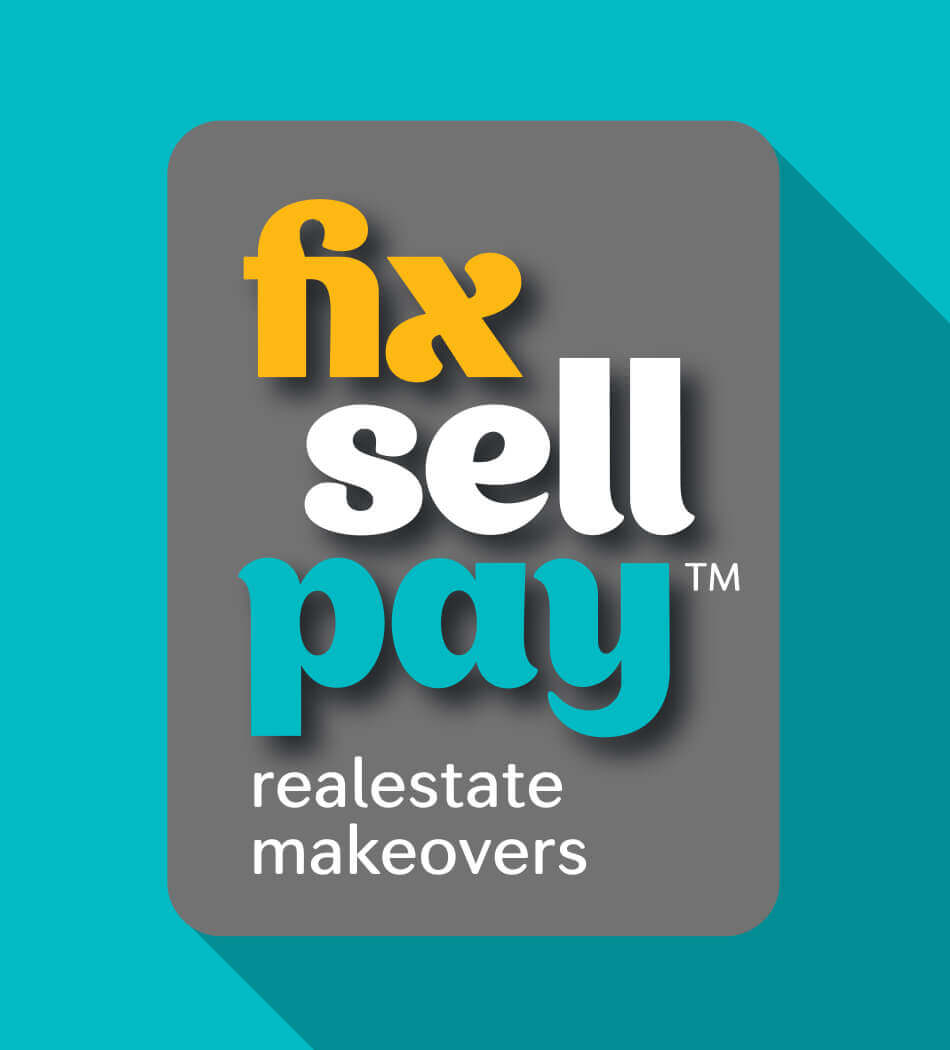
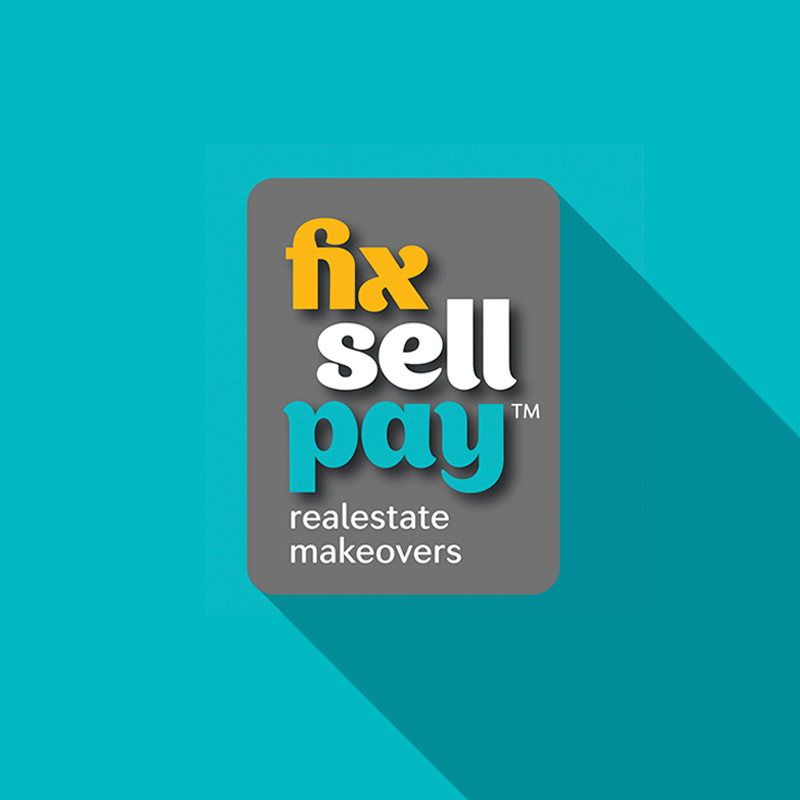
Added projects, adjusted slider images, renamed slider images, replaced thumbnail images for better responsiveness.

diff --git a/source/_posts/work/clarenvale-village.md b/source/_posts/work/clarenvale-village.md
@@ -1,0 +1,34 @@
+---
+layout: work
+title: Clarenvale Village
+date: 2025-05-01T01:37:06.031Z
+subtitle: A soft, modern rebrand for a long-standing Chelsea retirement village
+description: A soft, modern rebrand for a long-standing Chelsea retirement village
+client: Clarenvale Village
+brief: Estate Branding
+deliverables: Brand Identity, Website Design, Photography, Print
+image: clarenvale-village1.jpg
+permalink: /portfolio/clarenvale-village/
+categories:
+  - Branding and Design
+  - Packaging & Print
+tags:
+---
+
+## A refreshed identity for a peaceful Chelsea community
+
+Clarenvale Village is a retirement community set in a quiet, tree-lined Chelsea street. Surrounded by established gardens and just moments from shops, parks and public transport, it offers residents a warm, welcoming lifestyle — close to the things they know and love.
+
+Built 18 years ago, the village had built a strong reputation for comfort and community. But its visual identity hadn’t kept up. The brand felt dated, disconnected from its environment, and didn’t reflect the modern experience residents could expect.
+
+We were asked to reposition Clarenvale Village as a vibrant, friendly and nature-connected community — one that felt as peaceful and inviting as the village itself.
+
+### Realigned with lifestyle and location
+
+The new brand identity is simple, soft and welcoming. The logo design freed the typography from its original oval enclosure and introduced a modern, rounded sans serif — chosen to reflect warmth and approachability.
+
+The colour palette pairs gentle greens and neutral greys with a soft pop of pink. It’s a scheme that nods to the surrounding gardens and interiors while helping the brand appeal to a new generation of prospective residents.
+
+### A brand that lives across every touchpoint
+
+The refreshed identity was rolled out across both digital and print channels, including a new website, updated brochures, open day flyers, presentation folders and reusable tote bags for community events. These touchpoints worked together to bring cohesion and clarity to the Clarenvale Village experience — helping the brand connect with its audience while remaining true to its community-focused roots.

diff --git a/source/_posts/work/classic-car-garage-australia.md b/source/_posts/work/classic-car-garage-australia.md
@@ -7,8 +7,8 @@ description: Discover how we transformed Classic Car Garage's brand identity and
 client: Classic Car Garage Australia
 brief: Brand Identity
 deliverables: Retail Merchandising, Radio Advertising
-image: classic-car-garage-logo.jpg
-carouselImage: classic_car_garage_slider.jpg
+image: classic-car-garage-55.jpg
+carouselImage: classic-car-garage-slider.jpg
 permalink: /portfolio/classic-car-garage-australia/
 categories:
   - Branding and Design

diff --git a/source/_posts/work/kubota-50-years-campaign.md b/source/_posts/work/kubota-50-years-campaign.md
@@ -7,7 +7,7 @@ description: A Milestone Worth Celebrating
 client: Kubota Australia
 brief: Celebrate 50 years of Kubota Construction with a national campaign that drives engagement and sales.
 deliverables: Campaign, National TVC, META ad creative, Videography
-image: kubota-50-years-campaign1.jpg
+image: kubota-50-years-campaign7.jpg
 permalink: /portfolio/kubota-50-years-campaign/
 categories:
   - Video & Production

diff --git a/source/_posts/work/charcoal-chicken.md b/source/_posts/work/charcoal-chicken.md
@@ -7,7 +7,7 @@ description: Flamin’ Good’s Bold New Identity
 client: Charcoal Chicken
 brief: Premises Fitout & Branding
 deliverables: Branding, Shop Fitout and Signage
-image: Charcoal-Chicken_Tile1.jpg
+image: flamin_good_charcoal_chicken_logo.jpg
 permalink: /portfolio/charcoal-chicken/
 categories:
   - Branding and Design

diff --git a/source/_posts/work/fix-sell-pay.md b/source/_posts/work/fix-sell-pay.md
@@ -7,7 +7,7 @@ description: Fix your property, sell faster, pay after it has sold.
 client: Fix Sell Pay
 brief: Branding & Marketing
 deliverables: Brand Assets and Marketing Collateral
-image: fix-sell-pay3.jpg
+image: fix-sell-pay1.jpg
 permalink: /portfolio/fix-sell-pay/
 categories:
   - Branding and Design

diff --git a/source/_posts/work/coles-roast-chicken-packs.md b/source/_posts/work/coles-roast-chicken-packs.md
@@ -7,7 +7,7 @@ description: Homestyle Season Roast Chicken Package Design
 client: Coles
 brief: Pitch For Packaging Design
 deliverables: Concepts
-image: ColesChicken-Image1.jpg
+image: coles-roast-chicken5.jpg
 permalink: /portfolio/coles-roast-chicken-packs/
 categories:
   - Packaging & Print

diff --git a/source/_posts/work/redheads.md b/source/_posts/work/redheads.md
@@ -7,7 +7,7 @@ description: With the completion of a major rebrand Redheads required a major de
 client: Redheads
 brief: Brand Rollout
 deliverables: Packaging Design
-image: Firelighters.jpg
+image: redhead_logo.jpg
 permalink: /portfolio/redheads/
 categories:
   - Branding and Design

diff --git a/source/_posts/work/happy-nappy.md b/source/_posts/work/happy-nappy.md
@@ -7,7 +7,7 @@ description: A brand identity for a new entry into an established market.
 client: Softmed
 brief: Packaging Design
 deliverables: Brand Identity
-image: happy-nappy-1.jpg
+image: happy_nappy_logo.jpg
 permalink: /portfolio/happy-nappy/
 categories:
   - Packaging & Print
